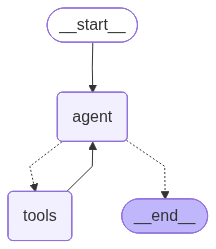
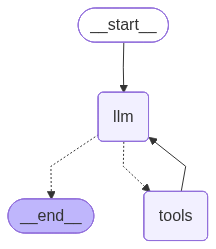
Add biryani and graph processing functionality
- Implemented a new biryani preparation workflow in biryani.ts, including functions for cutting vegetables, boiling rice, adding salt, and testing the biryani.
- Created a state graph to manage the biryani preparation steps.
- Added graph.ts for chat-based interaction with tools and stateful memory management.
- Introduced utility function in utils.ts for saving graph state images.
- Updated graphState.png to reflect the new graph structure.

diff --git a/graph.ts b/graph.ts
@@ -1,0 +1,120 @@
+import { ChatGroq } from "@langchain/groq";
+import { TavilySearch } from "@langchain/tavily";
+import { tool } from "@langchain/core/tools";
+import { z } from "zod";
+import {
+  END,
+  MemorySaver,
+  MessagesAnnotation,
+  StateGraph,
+} from "@langchain/langgraph";
+import { ToolNode } from "@langchain/langgraph/prebuilt";
+import readline from "readline/promises";
+import { saveGraphState } from "./utils";
+
+// === INPUT/OUTPUT SETUP ===
+const rl = readline.createInterface({
+  input: process.stdin,
+  output: process.stdout,
+});
+
+// === STATEFUL MEMORY FOR CHAT THREADS ===
+const memorySaver = new MemorySaver();
+
+// === TOOL DEFINITIONS ===
+const webSearchTool = new TavilySearch({
+  maxResults: 5,
+  topic: "general",
+});
+
+const calendarEventsTool = tool(
+  async () => {
+    return JSON.stringify({
+      events: [
+        { title: "Meeting with John", date: "2025-10-03" },
+        { title: "Meeting with Jane", date: "2025-10-04" },
+        { title: "Meeting with Jim", date: "2025-10-05" },
+      ],
+    });
+  },
+  {
+    name: "get-calendar-events-by-date",
+    description: "Retrieves calendar events for a specific date.",
+    schema: z.object({
+      query: z.string().describe("The query to use in your calendar search."),
+    }),
+  }
+);
+
+const tools = [webSearchTool, calendarEventsTool];
+const toolsNode = new ToolNode(tools);
+
+// === LANGUAGE MODEL SETUP ===
+const llm = new ChatGroq({
+  model: "openai/gpt-oss-120b",
+  temperature: 0,
+}).bindTools(tools);
+
+// === GRAPH LOGIC FUNCTIONS ===
+// LLM node: Calls the model on chat state and returns structured messages
+async function callModel(state: any) {
+  const response = await llm.invoke(state.messages);
+  return {
+    messages: [response],
+  };
+}
+
+// Routing logic: Decides if tools are needed or to end conversation
+function shouldContinue(state: any): string {
+  const lastMessage = state.messages[state.messages.length - 1];
+  if (lastMessage.tool_calls?.length > 0) {
+    return "tools";
+  }
+  return "__end__";
+}
+
+// === GRAPH STRUCTURE ===
+const chatGraph = new StateGraph(MessagesAnnotation)
+  .addNode("llm", callModel)
+  .addNode("tools", toolsNode)
+  .addEdge("__start__", "llm")
+  .addEdge("tools", "llm")
+  .addConditionalEdges("llm", shouldContinue, {
+    __end__: END,
+    tools: "tools",
+  });
+
+// Compile graph with stateful memory
+const graphProcessor = chatGraph.compile({ checkpointer: memorySaver });
+
+// === MAIN CHAT LOOP ===
+async function main() {
+  const user_id = "1";
+  const config = { configurable: { thread_id: "1", user_id } };
+
+  while (true) {
+    const userMessage: string = await rl.question("Enter your message: ");
+
+    if (!userMessage || userMessage.toLowerCase() === "bye") {
+      break;
+    }
+
+    const result = await graphProcessor.invoke(
+      {
+        messages: [{ role: "user", content: userMessage }],
+      },
+      { ...config }
+    );
+
+    // Print the LLM's response
+    const lastMessage = result.messages[result.messages.length - 1];
+    console.log("agent response", lastMessage?.content);
+  }
+
+  rl.close();
+
+  // === OPTIONAL: SAVE GRAPH DIAGRAM ===
+  saveGraphState(graphProcessor, "./graphStateWithTools.png");
+}
+
+main();

diff --git a/biryani.ts b/biryani.ts
@@ -1,0 +1,77 @@
+import { StateGraph, MessagesAnnotation, END } from "@langchain/langgraph";
+import { writeFileSync } from "fs";
+
+// cut the vegetables
+
+function cutVegetables(state: any): any {
+  console.log("Cutting vegetables");
+  return state;
+}
+
+// boil the rice
+
+function boilRice(state: any): any {
+  console.log("Boiling rice");
+  return state;
+}
+
+// add the salt
+
+function addSalt(state: any): any {
+  console.log("Adding salt");
+  return state;
+}
+
+//test the biryani
+
+function testBiryani(state: any): any {
+  console.log("Testing biryani");
+  return state;
+}
+
+type WhareToGo =
+  | "__end__"
+  | "addSalt"
+  | "testBiryani"
+  | "cutVegetables"
+  | "boilRice";
+
+function whareToGo(state: any): WhareToGo {
+  if (true) {
+    return "__end__";
+  }
+  return "addSalt";
+}
+
+// Define a new graph
+
+const graph = new StateGraph(MessagesAnnotation)
+  .addNode("cutVegetables", cutVegetables)
+  .addNode("boilRice", boilRice)
+  .addNode("addSalt", addSalt)
+  .addNode("testBiryani", testBiryani)
+  .addEdge("__start__", "cutVegetables")
+  .addEdge("cutVegetables", "boilRice")
+  .addEdge("boilRice", "addSalt")
+  .addEdge("addSalt", "testBiryani")
+  .addConditionalEdges("testBiryani", whareToGo, {
+    __end__: END,
+    addSalt: "addSalt",
+  });
+
+const biryaniProcessor = graph.compile();
+
+async function main() {
+  // Draw and save agent graph state image
+  const agentGraphState = await biryaniProcessor.getGraphAsync();
+  const graphStatePng = await agentGraphState.drawMermaidPng();
+  const graphStateBuffer = await graphStatePng.arrayBuffer();
+  writeFileSync("./graphState.png", new Uint8Array(graphStateBuffer));
+
+  const biryani = await biryaniProcessor.invoke({
+    messages: [{ role: "user", content: "I want to make biryani" }],
+  });
+  console.log(biryani);
+}
+
+main();

diff --git a/utils.ts b/utils.ts
@@ -1,0 +1,8 @@
+import { writeFileSync } from "fs";
+
+export const saveGraphState = async (graph: any, fileName: string) => {
+  const graphState = await graph.getGraphAsync();
+  const graphStatePng = await graphState.drawMermaidPng();
+  const graphStateBuffer = await graphStatePng.arrayBuffer();
+  writeFileSync(fileName, new Uint8Array(graphStateBuffer));
+};
